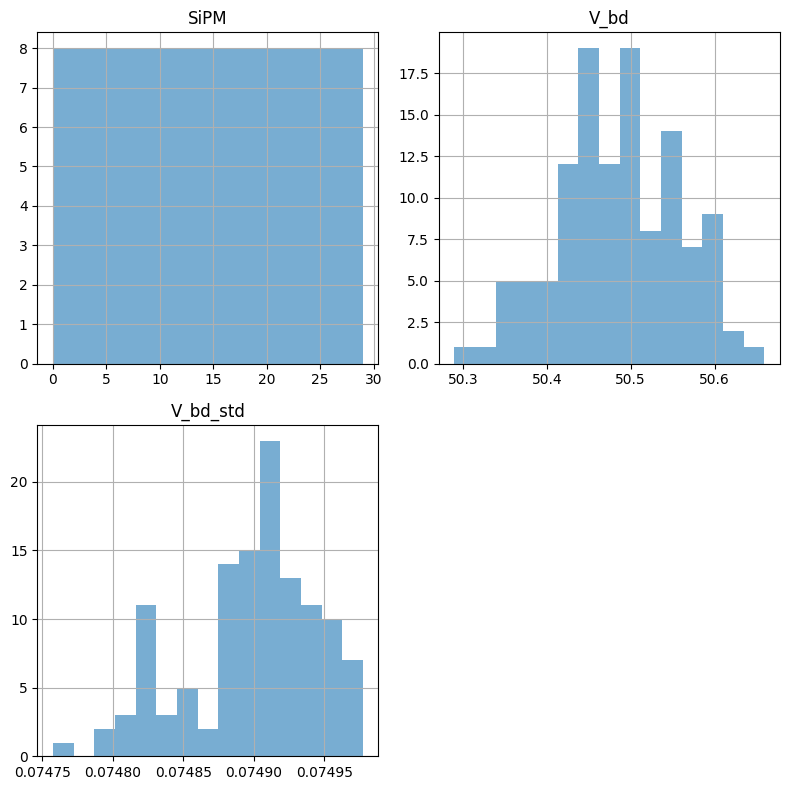
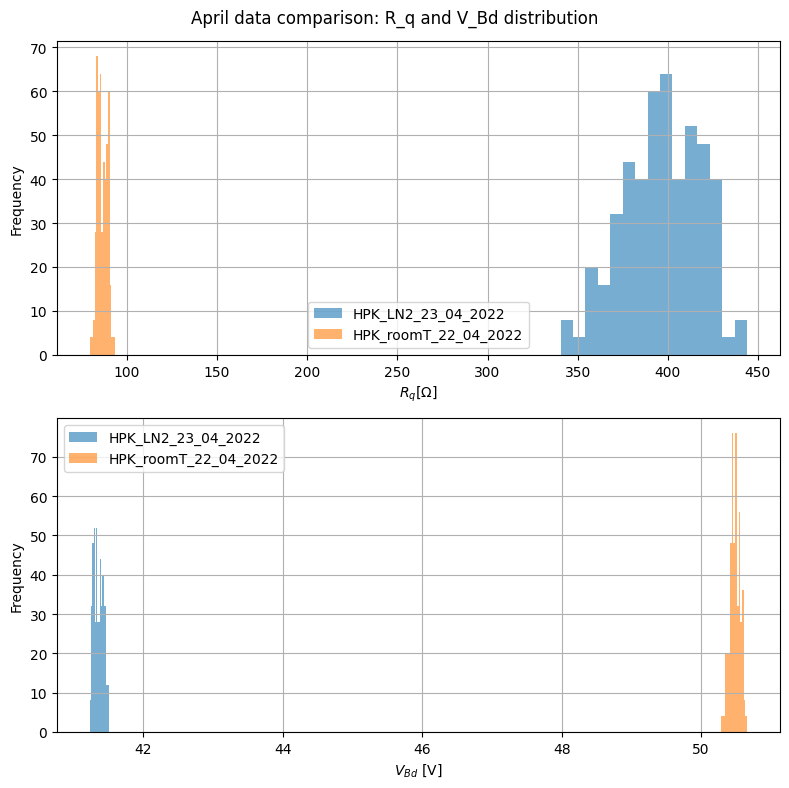
fixed multiple file class

diff --git a/sipm/sipm_class.py b/sipm/sipm_class.py
@@ -11,17 +11,6 @@ import matplotlib
 from matplotlib.backends.backend_pdf import PdfPages
 
 
-# multiple file analyzer
-"""Quando invece analizzi la cartella, che contiene 3 sottocartelle, devi aprire tutti 
-i file, fare le analisi come se fossero file singoli e poi fare gli istogrammi di v_bd 
-e R_q, nonché confrontare le due misure ad LN2 e le due misure di Aprile. Per la 
-directory, trova il modo di tenere separate le tre sottocartelle in results (vedi come 
-ho fatto io nel codice, tanto è lìunico modo per farlo), in modo da poi poter fare 
-facilmente gli istogrammi a LN2 o quelli di Aprile. Sempre per la directory, come nel 
-caso claro, fatti la lista di file e poi chiama per ciascuno una istanza della classe 
-Single, così il codice lo scrivi solo una volta"""
-
-
 class SingleFile:
     def __init__(self, path):
         self.path = path
@@ -189,12 +178,18 @@ class MultipleFiles:
                 plt.close()
                 print(f"Plot saved as {os.path.join(resulting_values, plotname)}")
 
-        def plot_comparison_hist(data, title, subdir_filter, y_vars, plotname):
+        # Create a single dataframe with both fwd and rev results
+        all_files = pd.merge(
+            pd.concat(forward_files), pd.concat(reverse_files), on=["SiPM", "subdir"]
+        )
+
+        def plot_comparison_hist(data, title, subdir_filter, plotname):
+            y_vals = ["R_quenching", "V_bd"]
             # Create a figure with one plot for each y variable, sharing the x-axis
-            fig, axs = plt.subplots(len(y_vars), 1, sharex=True, figsize=(8, 8))
+            fig, axs = plt.subplots(2, figsize=(8, 8))
 
             # Add a title to the figure
-            fig.suptitle(f"{dir}: R_q and V_Bd distribution")
+            fig.suptitle(f"{title}: R_q and V_Bd distribution")
 
             # Set the x and y labels for the first plot
             axs[0].set_xlabel("$R_q [\Omega$]")
@@ -204,23 +199,15 @@ class MultipleFiles:
             axs[1].set_xlabel("$V_{Bd}$ [V]")
             axs[1].set_ylabel("Frequency")
 
-            # Loop over each y variable
-            for i, y_var in enumerate(y_vars):
-                grouped_df = data[data["subdir"].str.contains(subdir_filter)].groupby(
-                    "subdir"
-                )
-                print(type(grouped_df))
-                print(grouped_df)
-                # Loop over each directory that matches the given filter
-                # for subdir in grouped_df:
-                # Create a histogram of the y variable for the current directory and add it to the plot
-                #    grouped_df[y_var].hist(ax=axs[i], label=subdir, bins=15, alpha=0.6)
-                grouped_df.hist(ax=axs[i], label=subdir, bins=15, alpha=0.6)
-                # Set the y label for the current plot to the current y variable
-                axs[i].set_ylabel(y_var)
-                # Add a legend to the current plot
-                axs[i].legend()
+            # Check the comparison condition
+            matching_df = data[data["subdir"].str.contains(subdir_filter)]
 
+            # Define colors for each group
+            for i, y_val in enumerate(y_vals):
+                for subdir, group in matching_df.groupby("subdir"):
+                    group[y_val].hist(ax=axs[i], label=subdir, bins=15, alpha=0.6)
+
+            [ax.legend() for ax in axs]
             # Adjust the layout of the plots
             plt.tight_layout()
 
@@ -233,22 +220,17 @@ class MultipleFiles:
             # Print the path to the saved plot
             print(f"Plot saved as {os.path.join(resulting_values, plotname)}")
 
-        forward_files = pd.concat(forward_files)
-        reverse_files = pd.concat(reverse_files)
-
         plot_comparison_hist(
-            forward_files,
+            all_files,
             "Liquid Nitrogen comparison",
             "LN2",
-            ["R_quenching", "V_bd"],
             "LN2_comparison_hist.png",
         )
 
         plot_comparison_hist(
-            reverse_files,
+            all_files,
             "April data comparison",
             "_04_",
-            ["R_quenching", "V_bd"],
             "April_data_comparison_hist.png",
         )
 

diff --git a/sipm/sipm_main.py b/sipm/sipm_main.py
@@ -30,14 +30,14 @@ else:
     print(f"This is a folder. Analyzing...\n")
 
     # Analyze folder using sipm_class.MultipleFiles
-    # try:
-    sipm = cl.MultipleFiles(input_path)
-    sipm.read_folder()
-    sipm.dir_analyzer()
-    sipm.create_histogram()
-    # except Exception as e:
-    #    print("Error analyzing:")
-    #    print(e)
+    try:
+        sipm = cl.MultipleFiles(input_path)
+        sipm.read_folder()
+        sipm.dir_analyzer()
+        sipm.create_histogram()
+    except Exception as e:
+        print("Error analyzing:")
+        print(e)
 
 
 # C:\Users\utente\Desktop\OOP\CACTUS_HPK_measurements
